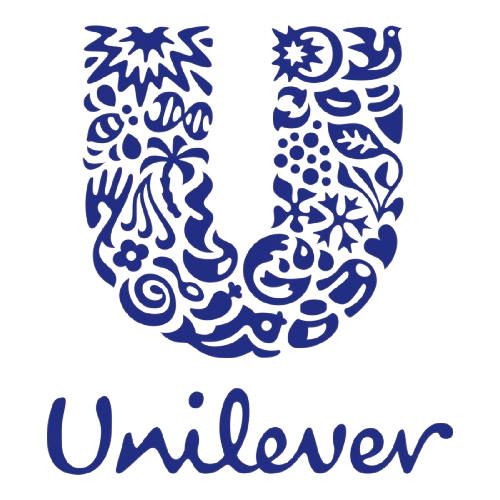
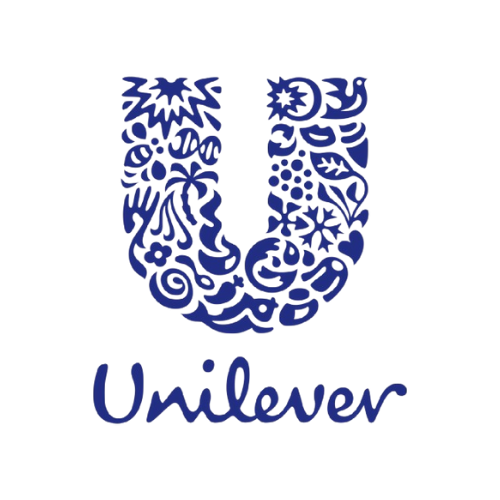
update index

Changed region(s): [[0.09, 0.03, 0.93, 0.96]]

diff --git a/style.css b/style.css
@@ -378,15 +378,18 @@ section {
 }
 
 .logo-container img {
-  height: 75px;
+  height: 200px;
   width: auto;
   object-fit: contain;
+  border-radius: 10px;
 }
 
-/* Glow effect for Unilever and GroupM in dark mode */
+/* Glow effect for company in dark mode */
+.dark .temple .logo-container img,
+.dark .first-economy .logo-container img,
 .dark .unilever .logo-container img,
 .dark .groupm .logo-container img {
-  filter: drop-shadow(0 0 5px rgba(255, 255, 255, 0.5));
+  filter: drop-shadow(0 0 5px var(--primary-color));
 }
 
 .text-container {
